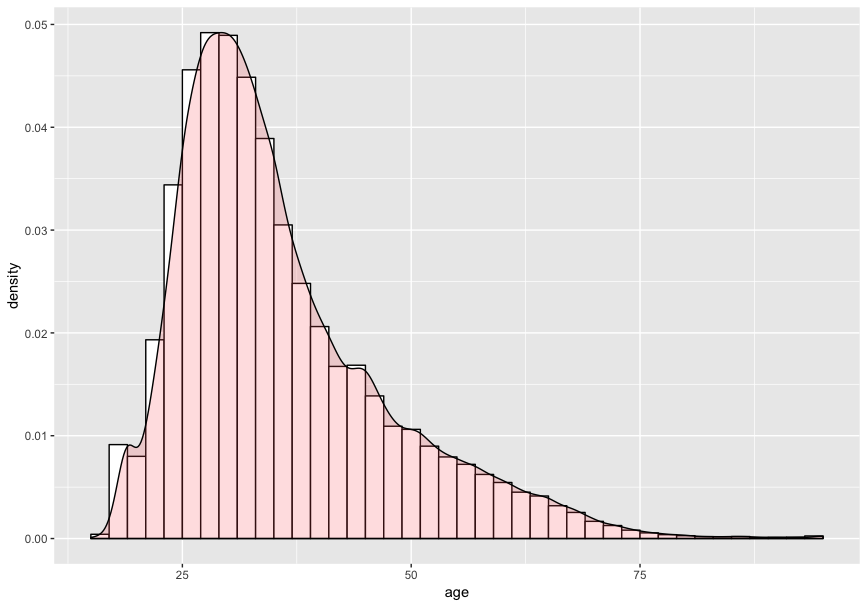
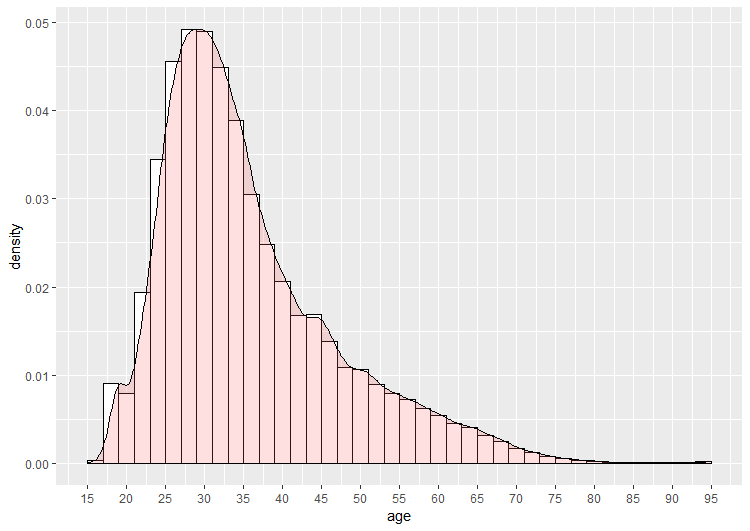
// post 2019-03-08-kaggle-airbnb

diff --git a/_posts/2019-03-08-kaggle-airbnb.md b/_posts/2019-03-08-kaggle-airbnb.md
@@ -1,0 +1,148 @@
+---
+layout: post
+title:  "Airbnb New User Booking - Part 1"
+date:   2019-03-08 20:00:00
+categories: data-analysis
+keywords: data visualization, data-analysis
+relatedwords: kaggle
+---
+
+[数据](\assets\2019-03-08-kaggle-airbnb\data.zip)来源: [Airbnb](https://www.kaggle.com/c/airbnb-recruiting-new-user-bookings)
+
+解决问题：通过分析，预测新用户的预定目的地，给与新用户合适的消息推送。
+
+#### Data Exploration
+
+通常在开始一项数据分析项目之前，我会思考：
+* 这份数据是否是正确的？
+* 这份数据是否有异常部分，例如某段时间的异常波动等？
+* 这份数据是否需要增加或者删除部分数据使其更符合现实？
+
+1. Exam datasets
+{% highlight r %} 
+#train dataset
+data_train_user <- read.csv(file = "C:\\Users\\yuki\\Desktop\\airbnb-recruiting-new-user-bookings\\train_users_2.csv")
+head(data_train_user)
+dim(data_train_user)
+#test dataset
+data_test_user <- read.csv(file = "C:\\Users\\yuki\\Desktop\\airbnb-recruiting-new-user-bookings\\test_users.csv")
+head(data_test_user)
+dim(data_test_user)
+{% endhighlight %}
+
+2. Rearrange datasets
+{% highlight r %} 
+# Merge train and test dataset
+data_test_user$country_destination <- NA
+head(data_test_user)
+data_all_user <- rbind(data_train_user, data_test_user)
+dim(data_all_user)
+# Delete id column
+data_all_user$id <- NULL
+# Rearrange columns by column names...强迫症而已
+data_all_user <- data_all_user[,order(names(data_all_user))]
+head(data_all_user)
+{% endhighlight %}
+
+#### Missing Data
+
+1. 在 R 中缺失值以 NA 表示，但是可以看见 column(gender) 中有 “-unknown-” 的表示，所以要将其重编码为缺失值
+{% highlight r %} 
+#Replace missing value
+data_all_user$gender[data_all_user$gender == "-unknown-"] <- NA
+{% endhighlight %}
+
+2. 通过缺失值检查，可以发现年龄与性别的缺失值比例很高
+{% highlight r %} 
+#Calculate the number of missing data
+data_NA_proportion <- colSums(is.na(data_all_user)) / dim(data_all_user)[1]
+print(data_NA_proportion)
+{% endhighlight %}
+
+3. 检查年龄变量，我们可以发现某一部分用户的年龄是不真实的.当用户年龄大于100时，50%以上的用户年龄大于2014，基本不可靠；当用户年龄小于18时，50%以上的用户年龄大于16，勉强符合实际。因此需要对不可靠的年龄数据进行删除。
+{% highlight r %} 
+#Replace age>95 && age < 12 by missing value
+data_all_user$age[data_all_user$age > 95] <- NA
+data_all_user$age[data_all_user$age < 13] <- NA
+summary(data_all_user$age)
+{% endhighlight %}
+
+#### Data Visulization
+
+通常，只看数据的均值，中位数，分位数等基础统计量对于进一步了解数据并没有太大的帮助，除非你十分清除你的数据集合。
+
+将数据绘制成可视化图形更有利于我们观察到数据的异常值和错误值。我们可以逐个变量进行探索。
+
+1. Gender
+
+分析可见，不同性别对于选择旅行目的地并没有明显的区别。但是大部分新用户预定的目的地在美国。
+
+![Gender](\assets\2019-03-08-kaggle-airbnb\Gender.png)
+
+![Gender&Country](\assets\2019-03-08-kaggle-airbnb\Gender_Country.png)
+
+{% highlight r %} 
+#Gender
+p <- ggplot(data=data_all_user, aes(x=gender))
+p +geom_bar(stat = "count", color="black", fill="white") + xlab("Gender") + ylab("Count")
+
+#Gender & Country
+#count_country <- table(data_all_user$gender[,drop=T], data_all_user$country_destination)
+#count_country <- as.data.frame(count_country)
+p <- ggplot(data=na.omit(data_all_user), mapping=aes(x=country_destination, fill=gender), na.rm = TRUE)
+p +geom_bar(stat = "count", position = "dodge") + xlab("Country") + ylab("Count") + theme_bw()
+{% endhighlight %}
+
+2. Age
+
+分析可见，出游用户大多集中在20-45岁, 而且各年龄段的用户选择旅游目的地的差异并不大。
+![Age](\assets\2019-03-08-kaggle-airbnb\Age.png)
+
+![Age&Country](\assets\2019-03-08-kaggle-airbnb\Age_Country.png)
+
+{% highlight r %} 
+#Age
+p <- ggplot(data=data_all_user,aes(x=age)) 
+p + geom_histogram(aes(y=..density..), binwidth = 2, color="black", fill="white") + 
+  geom_density(alpha=.2, fill="#FF6666") +
+  scale_x_continuous(breaks=seq(0, 100, 5)) 
+
+#Age & Country
+data_all_user$age_range <- findInterval(data_all_user$age, c(0,20,40,60,80,100))
+data_all_user$age_range <- as.factor(data_all_user$age_range)
+p <- ggplot(data=na.omit(data_all_user), mapping=aes(x=country_destination, fill=age_range), na.rm=TRUE)
+p +geom_bar(stat = "count", position = "dodge") + xlab("Country") + ylab("Count") + theme_bw() + 
+  scale_fill_discrete(name="Age", breaks=c("1", "2", "3", "4", "5"), labels=c("0-20", "20-40", "40-60", "60-80", "80-100"))
+{% endhighlight %}
+
+3. Date
+
+分析用户创建账户的时间，可发现在2012-2014年间Airbnb的用户快速的增长而且用户创建账户的时间以周中为主（即周二，周三，周四）。
+![Age](\assets\2019-03-08-kaggle-airbnb\Year.png)
+
+![Age&Country](\assets\2019-03-08-kaggle-airbnb\Weekday.png)
+
+{% highlight r %} 
+#Date & Account
+data_all_user$date_account_created_year=substr(data_all_user$date_account_created,1,4)
+data_all_user$date_account_created_weekday=weekdays(as.Date(data_all_user$date_account_created))
+p <- ggplot(data=data_all_user, mapping=aes(x=date_account_created_year))
+p + geom_bar(stat="count", color="black", fill="white") + xlab("Year") + ylab("Count")
+p <- ggplot(data=data_all_user, mapping=aes(x=date_account_created_weekday))
+p + geom_bar(stat="count", color="black", fill="white") + xlab("Weekday") + ylab("Count")
+{% endhighlight %}
+
+4. Platform
+
+目前使用 Web 端下订单的用户还是占大多数，而且使用 Web 端的用户大部分不会在第一次就预定旅行。
+
+![Platform](\assets\2019-03-08-kaggle-airbnb\Platform.png)
+
+{% highlight r %} 
+#Platform
+p <- ggplot(data=na.omit(data_all_user), mapping=aes(x=signup_app, fill=country_destination), na.rm = TRUE)
+p +geom_bar(stat = "count") + xlab("Platform") + ylab("Count") + theme_bw()
+{% endhighlight %}
+
+
+
